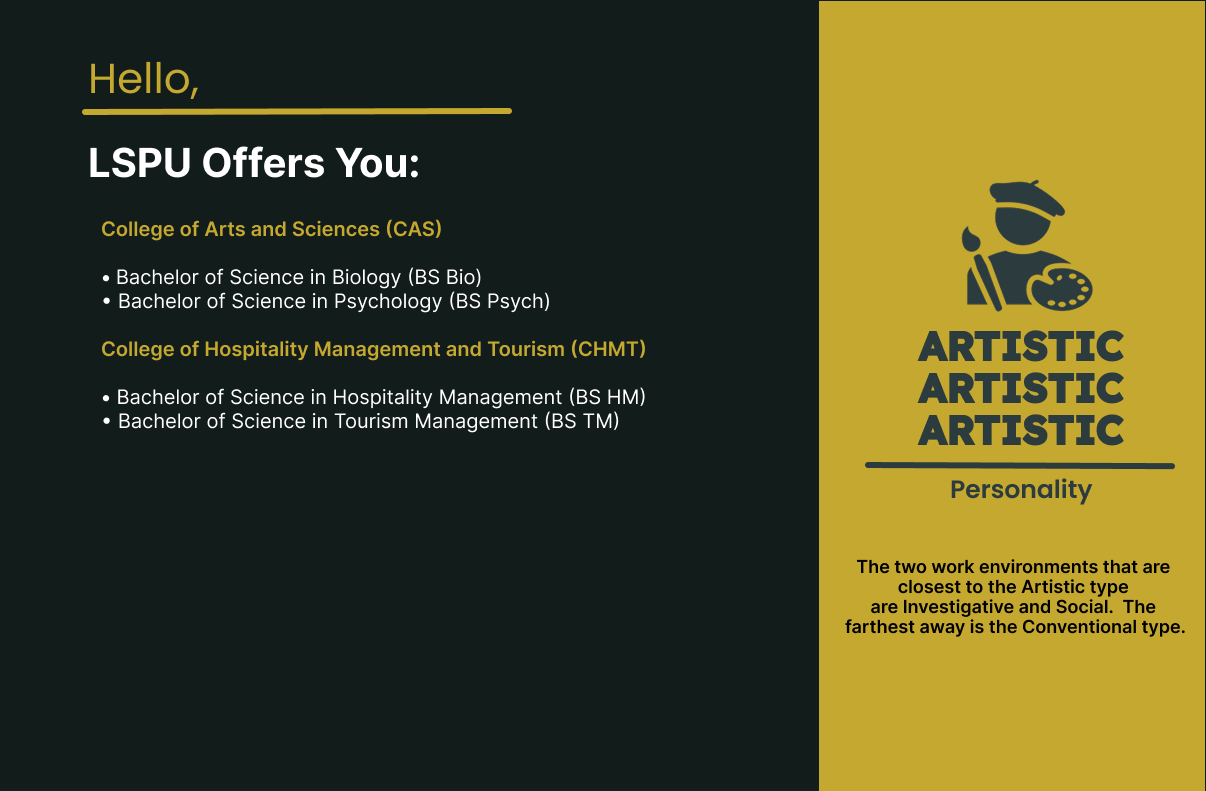
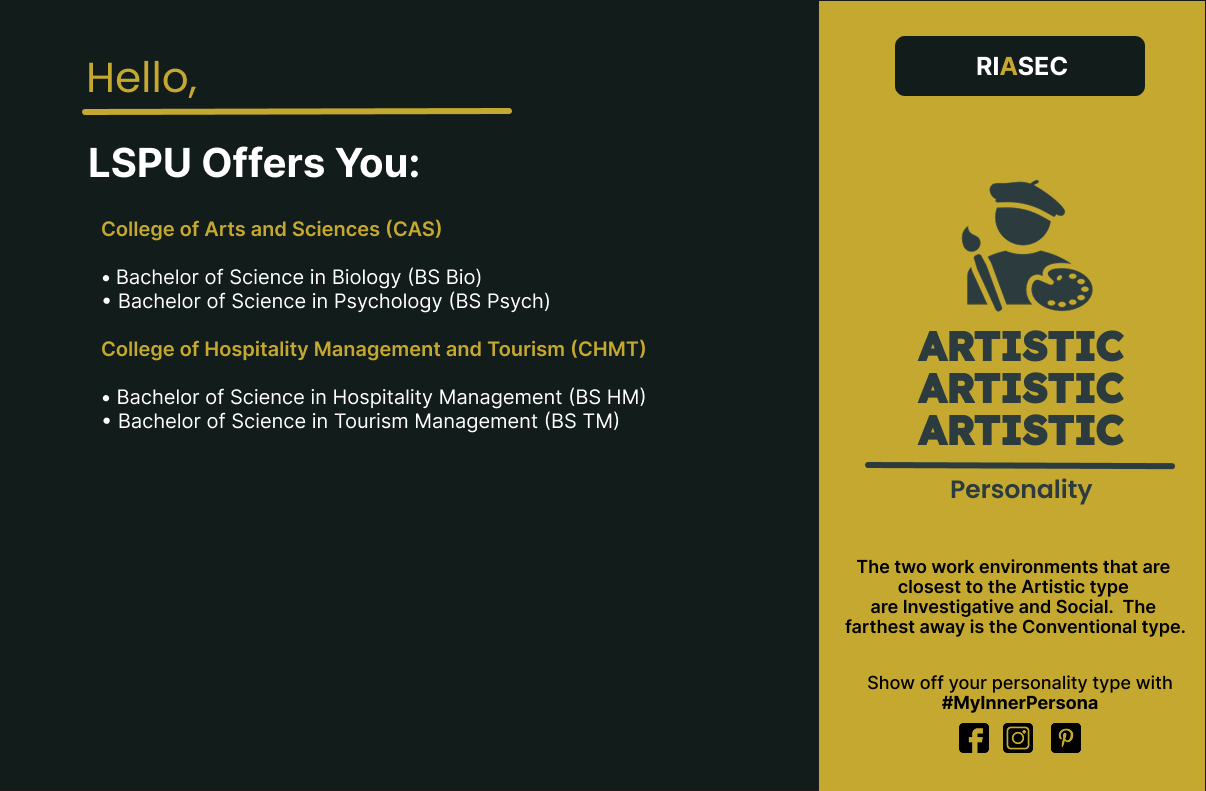
(08/05/2025)

Changed region(s): [[0.7363, 0.0303, 0.9511, 0.1214], [0.7056, 0.8496, 0.9818, 0.9709], [0.0614, 0.0607, 0.1841, 0.1214]]

diff --git a/Student Assistant/frmQuestionsDesign.py b/Student Assistant/frmQuestionsDesign.py
@@ -26,10 +26,12 @@ class frmRealisticResult(QWidget):
         self.btnClose.setObjectName("btnClose")
         self.btnClose.clicked.connect(self.exit_app)
 
-        self.btnSave = QPushButton("Save", self)
-        self.btnSave.setFixedSize(250, 60)
-        self.btnSave.move(893, 697)
+        self.btnSave = QPushButton(self)
+        self.btnSave.setFixedSize(60, 60)
+        self.btnSave.move(742, 34)
         self.btnSave.setObjectName("btnSave")
+        self.btnSave.setIcon(QIcon("Save.png"))  
+        self.btnSave.setIconSize(QSize(40, 40))
         self.btnSave.clicked.connect(self.save_screenshot)
 
         self.load_stylesheet("RIASEC.qss")
@@ -96,10 +98,12 @@ class frmInvestigativeResult(QWidget):
         self.btnClose.setObjectName("btnClose")
         self.btnClose.clicked.connect(self.exit_app)
 
-        self.btnSave = QPushButton("Save", self)
-        self.btnSave.setFixedSize(250, 60)
-        self.btnSave.move(893, 697)
+        self.btnSave = QPushButton(self)
+        self.btnSave.setFixedSize(60, 60)
+        self.btnSave.move(742, 34)
         self.btnSave.setObjectName("btnSave")
+        self.btnSave.setIcon(QIcon("Save.png"))  
+        self.btnSave.setIconSize(QSize(40, 40))
         self.btnSave.clicked.connect(self.save_screenshot)
 
         self.load_stylesheet("RIASEC.qss")
@@ -166,10 +170,12 @@ class frmArtisticResult(QWidget):
         self.btnClose.setObjectName("btnClose")
         self.btnClose.clicked.connect(self.exit_app)
 
-        self.btnSave = QPushButton("Save", self)
-        self.btnSave.setFixedSize(250, 60)
-        self.btnSave.move(893, 697)
+        self.btnSave = QPushButton(self)
+        self.btnSave.setFixedSize(60, 60)
+        self.btnSave.move(742, 34)
         self.btnSave.setObjectName("btnSave")
+        self.btnSave.setIcon(QIcon("Save.png"))  
+        self.btnSave.setIconSize(QSize(40, 40))
         self.btnSave.clicked.connect(self.save_screenshot)
 
         self.load_stylesheet("RIASEC.qss")
@@ -236,10 +242,12 @@ class frmSocialResult(QWidget):
         self.btnClose.setObjectName("btnClose")
         self.btnClose.clicked.connect(self.exit_app)
 
-        self.btnSave = QPushButton("Save", self)
-        self.btnSave.setFixedSize(250, 60)
-        self.btnSave.move(893, 697)
+        self.btnSave = QPushButton(self)
+        self.btnSave.setFixedSize(60, 60)
+        self.btnSave.move(742, 34)
         self.btnSave.setObjectName("btnSave")
+        self.btnSave.setIcon(QIcon("Save.png"))  
+        self.btnSave.setIconSize(QSize(40, 40))
         self.btnSave.clicked.connect(self.save_screenshot)
 
         self.load_stylesheet("RIASEC.qss")
@@ -306,10 +314,12 @@ class frmEnterprisingResult(QWidget):
         self.btnClose.setObjectName("btnClose")
         self.btnClose.clicked.connect(self.exit_app)
 
-        self.btnSave = QPushButton("Save", self)
-        self.btnSave.setFixedSize(250, 60)
-        self.btnSave.move(893, 697)
+        self.btnSave = QPushButton(self)
+        self.btnSave.setFixedSize(60, 60)
+        self.btnSave.move(742, 34)
         self.btnSave.setObjectName("btnSave")
+        self.btnSave.setIcon(QIcon("Save.png"))  
+        self.btnSave.setIconSize(QSize(40, 40))
         self.btnSave.clicked.connect(self.save_screenshot)
 
         self.load_stylesheet("RIASEC.qss")
@@ -376,10 +386,12 @@ class frmConventionalResult(QWidget):
         self.btnClose.setObjectName("btnClose")
         self.btnClose.clicked.connect(self.exit_app)
 
-        self.btnSave = QPushButton("Save", self)
-        self.btnSave.setFixedSize(250, 60)
-        self.btnSave.move(893, 697)
+        self.btnSave = QPushButton(self)
+        self.btnSave.setFixedSize(60, 60)
+        self.btnSave.move(742, 34)
         self.btnSave.setObjectName("btnSave")
+        self.btnSave.setIcon(QIcon("Save.png"))  
+        self.btnSave.setIconSize(QSize(40, 40))
         self.btnSave.clicked.connect(self.save_screenshot)
 
         self.load_stylesheet("RIASEC.qss")

diff --git a/Student Assistant/frmLogin.py b/Student Assistant/frmLogin.py
@@ -12,30 +12,25 @@ class frmLogin(QWidget):
         self.setWindowFlags(Qt.WindowType.FramelessWindowHint)  
         self.cp = 0  
 
-        # Image Slideshow (Placed on the Left Side)
         self.lblImage = QLabel(self)
         self.lblImage.setFixedSize(460, 653)  
         self.lblImage.move(0, 0)  
         self.lblImage.setObjectName("lblImage")
         self.lblImage.setScaledContents(True)
 
-        # Second QLabel for smooth transition effect
         self.lblNextImage = QLabel(self)
         self.lblNextImage.setFixedSize(460, 653)
         self.lblNextImage.move(0, 0)  
         self.lblNextImage.setScaledContents(True)
         self.lblNextImage.hide()
 
-        # List of images for slideshow
         self.image_index = 0
         self.image_list = ["img1.png", "img2.png", "img3.png"]
 
-        # Timer to change images
         self.timer = QTimer(self)
         self.timer.timeout.connect(self.update_image)
         self.timer.start(4000)  
 
-        # Show the first image immediately
         self.update_image()
 
         # Username Input
@@ -276,7 +271,7 @@ class frmLogin(QWidget):
             con.close()
 
         if result:
-            QMessageBox.information(self, "Login Security", f"ACCESS GRANTED: Hi {username}! Welcome to Student Assistant System")
+            QMessageBox.information(self, "Login Security", f"Login Successfully!: Hi {username}! Welcome to Student Assistant System")
             self.main_window = frmMain(username) 
             self.main_window.show()
             self.close()
@@ -287,7 +282,7 @@ class frmLogin(QWidget):
             self.cp += 1
 
             if self.cp >= 4:
-                QMessageBox.critical(self, "Limit Reached", "Student Management System application will now close.")
+                QMessageBox.critical(self, "Limit Reached", "Student Assisstant System application will now close.")
                 sys.exit()
 
     # DATABASE CONNECTION Create ==================================================

diff --git a/Student Assistant/frmQuestions.py b/Student Assistant/frmQuestions.py
@@ -189,7 +189,7 @@ class frmQuestions(QWidget):
         self.btnClickHere6.hide()
         
         self.load_stylesheet("Questions.qss")
-        self.update_buttons_color()  # Initialize button colors properly
+        self.update_buttons_color()  
 
     def paintEvent(self, event):
         painter = QPainter(self)
@@ -208,10 +208,8 @@ class frmQuestions(QWidget):
     def answer_question(self, answer_value):
         category = self.image_list[self.current_image_index]["category"]
 
-        # Check previous answer
         previous_answer = self.answers[self.current_image_index]
 
-        # Update scores by removing previous answer
         if previous_answer == 1:
             if category == "realistic":
                 self.realisticScore -= 1
@@ -228,7 +226,6 @@ class frmQuestions(QWidget):
 
         self.answers[self.current_image_index] = answer_value
 
-    # Update scores with new answer
         if answer_value == 1:
             if category == "realistic":
                 self.realisticScore += 1
